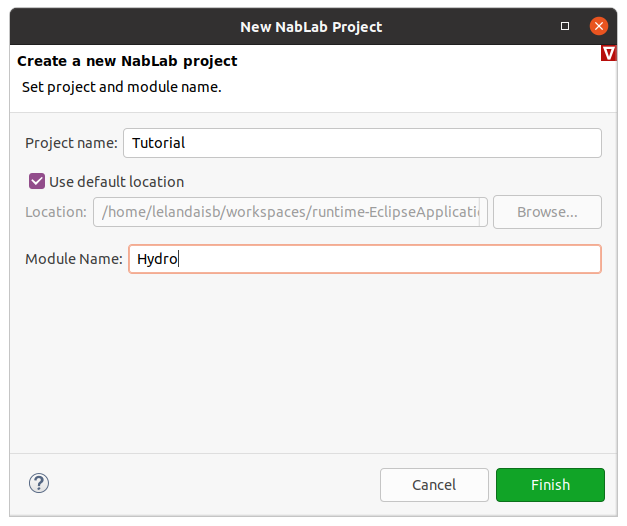
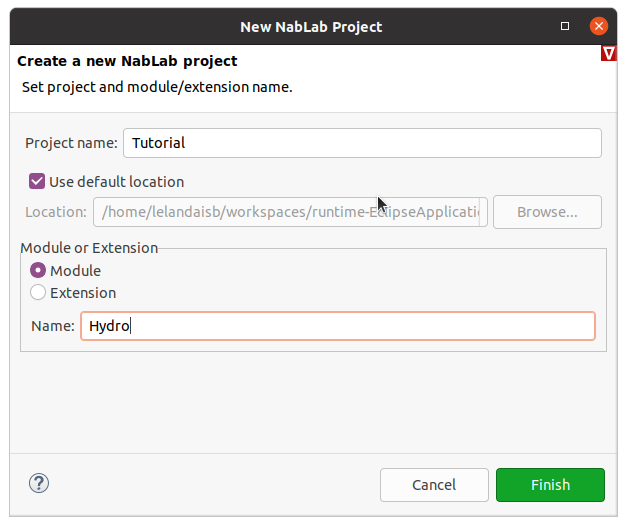
Documentation updated with new wizard screenshots.

Changed region(s): [[0.0303, 0.4563, 0.9697, 0.6692], [0.2727, 0.1521, 0.4848, 0.1825], [0.5758, 0.365, 0.6364, 0.4259]]

diff --git a/docs/fr.cea.nabla.mkdocs/docs/firstextension.md b/docs/fr.cea.nabla.mkdocs/docs/firstextension.md
@@ -21,16 +21,26 @@ The `nextWaveHeight` and `nextDepth` functions have to access shared scientific 
 The aim of this tutorial is to see how to create the NabLab extension containing the functions and how to implement and package a NabLab extension provider associated to this extension.
 
 
-## Defining the extension
+## Creating the project
 
-We will create a NabLab extension called *BathyLib*. The best practice consists in creating a folder for this extension at the same level than the swan folder containing the module and to create a *BathyLib.n* file into this folder. 
+We will create a NabLab extension called *BathyLib*. The best practice consists in creating an independent project for the extension and its providers. To do that, just click on the main menu *File > New > NabLab Project* to create a new project: 
 
-<img src="img/NabLab_extension_folders.png" alt="NabLab Extension Folders" title="NabLab Extension Folders" width="20%" height="20%" />
+<img src="img/NabLab_new_project_menu.png" alt="NabLab New Project" title="NabLab New Project" width="60%" height="60%" />
+
+A new wizard is launched, asking for a project name and an extension name:
+
+<img src="img/NabLab_new_project_wizard.png" alt="NabLab New Project Wizard" title="NabLab New Project Wizard" width="50%" height="50%" />
+
+Enter *BathyLib* as project name, select the *Extension* radio button and enter *BathyLib* as extension name and click on the *Finish* button to create the new project. The new project is available in the *Model Explorer* on the left of the window. It contains two files (*BathyLib.n*, and *BathyLib.ngen*) in the *Tutorial/src/bathylib/* folder:
+
+<img src="img/NabLab_new_project_result.png" alt="NabLab New Project Result" title="NabLab New Project Result" width="30%" height="30%" />
 
 !!!note
-	The extension can also be created into a separate project. The project just needs to share the same workspace as the module.
+	The extension can also be created into the same project as the application, into a separate folder. Therefore, if you plan to share the extension between projects, creating a project for the extension remains the best solution. 
 
-Then, double-click on the *bathylib/BathyLib.n* file to open it and declare the *BathyLib* extension and the `nextWaveHeight` and `nextDepth` functions in the NabLab editor:
+## Defining the extension
+
+Double-click on the *src/bathylib/BathyLib.n* file to open it and declare the `nextWaveHeight` and `nextDepth` functions in the NabLab editor like this:
 
 ```
 extension BathyLib;
@@ -54,33 +64,27 @@ It is noteworthy that the above functions have no body. We will see now how to c
 
 The role of providers is to implement extensions. It is possible to implement several providers for an extension, for example a Java one and a C++ one. In this tutorial we will implement only one C++ provider for the *BathyLib* extension. 
 
-The first step to define the provider is to create a *ngen* file containing the provider definition. NabLab provides a code generator for that: right-click on the *BathyLib.n* file and select the *Generate nablagen provider file* menu. 
+The first step to define the provider is to create a *ngen* file containing the provider definition.
 
-<img src="img/NabLab_generate_nablagen_provider_file.png" alt="NabLab Provider File Generation" title="NabLab Provider File Generation" width="40%" height="40%" />
-
-A *BathyLib.ngen* file is created near the *BathyLib.n* one.
-
-<img src="img/NabLab_extension_folders2.png" alt="NabLab Extension Folders" title="NabLab Extension Folders" width="20%" height="20%" />
+!!! Note
+	The *ngen* file already exists in the project: it has been created by the wizard. If you need to create this *ngen* file on an existing project, NabLab provides a code generator for that: right-click on the *BathyLib.n* file and select the *Generate nablagen provider file* menu. 
 
 Double-click on the *BathyLib.ngen* file to open the editor and suppress lines to let only a simple C++ provider as follows:
 
 ```
-// C++ Extension Provider
 Provider BathyLibCpp : BathyLib
 {
 	target = StlThread;
-	outputPath = "/swan/src-gen-cpp/stl-thread";
+	outputPath = "/BathyLib/src-cpp/stl-thread";
 }
 ```
 
-The above example defines a provider named `BathyLibCpp` that implements `BathyLib`. This provider will be generated for the `StlThread` target in the provided `outputPath`. 
+The above example defines a provider named `BathyLibCpp` that implements `BathyLib`. This provider will be generated for the `StlThread` target in the provided `outputPath`. More information on generation targets are available in the [Ngen language reference](../ngenlanguage/index.html).
 
 !!! note
 	The implemented extension and the available targets are available by contextual code completion with `CTRL-Space` keys.
 
-!!! note
-	More information on generation targets are available in the [Ngen language reference](../ngenlanguage/index.html)
-
+The output folder name is *src-cpp* rather than *src-gen-cpp* because the content of the folder is not totally generated: it will be filled by the user in the following section.
 
 ## Implementing the provider
 
@@ -88,7 +92,7 @@ The aim of the previously defined provider is to implement the `nextWaveHeight` 
 
 <img src="img/NabLab_generate_code.png" alt="NabLab Generate Code" title="NabLab Generate Code" width="50%" height="50%" />
 
-Generated files can be observed in the `outputPath` folder, in our example "/swan/src-gen-cpp/stl-thread".
+Generated files can be observed in the `outputPath` folder, in our example "/BathyLib/src-cpp/stl-thread".
 
 <img src="img/NabLab_provider_generated_files.png" alt="NabLab Provider Files" title="NabLab Provider Files" width="20%" height="20%" />
 

diff --git a/docs/fr.cea.nabla.mkdocs/docs/modulecomposition.md b/docs/fr.cea.nabla.mkdocs/docs/modulecomposition.md
@@ -16,7 +16,7 @@ A new wizard is launched, asking for a project name and a module name:
 
 <img src="img/NabLab_new_project_wizard.png" alt="NabLab New Project Wizard" title="NabLab New Project Wizard" width="50%" height="50%" />
 
-Enter *Tutorial* as project name and *Hydro* as module name and click on the *Finish* button to create the new project. The new project is available in the *Model Explorer* on the left of the window. It contains two files (*Hydro.n*, and *Hydro.ngen*) in the *Tutorial/src/hydro/* folder:
+Enter *Tutorial* as project name, select the *Module* radio button, enter *Hydro* as module name and click on the *Finish* button to create the new project. The new project is available in the *Model Explorer* on the left of the window. It contains two files (*Hydro.n*, and *Hydro.ngen*) in the *Tutorial/src/hydro/* folder:
 
 <img src="img/NabLab_new_project_result.png" alt="NabLab New Project Result" title="NabLab New Project Result" width="30%" height="30%" />
 
@@ -217,5 +217,5 @@ The `StlThread` target will generate the following files:
 
 <img src="img/NabLab_hydro_2remaps_generated_files.png" alt="NabLab Multiple Additional Module Generated Files" title="NabLab Multiple Additional Module Generated Files" width="20%" height="20%"/>
 
-The above picture shows that generated files have the same name as the instance (for example r1 in `AdditionalModule Remap r1` in *HydroRemap.ngen*) starting with an upper case, i.e. *Hydro*, *R1* and *R2*.
+The above picture shows that generated files have the same name as the module instances (defined in the *HydroRemap.ngen* file) starting with an upper case, i.e. *Hydro*, *R1* and *R2*.
 

diff --git a/docs/fr.cea.nabla.mkdocs/docs/firstmodule.md b/docs/fr.cea.nabla.mkdocs/docs/firstmodule.md
@@ -56,7 +56,7 @@ A new wizard is launched, asking for a project name and a module name:
 
 <img src="img/NabLab_new_project_wizard.png" alt="NabLab New Project Wizard" title="NabLab New Project Wizard" width="50%" height="50%" />
 
-Enter *Tutorial* as project name and *HeatEquation* as module name and click on the *Finish* button to create the new project. The new project is available in the *Model Explorer* on the left of the window. It contains two files (*HeatEquation.n*, and *HeatEquation.ngen*) in the *Tutorial/src/heatequation/* folder:
+Enter *Tutorial* as project name, select the *Module* radio button, enter *HeatEquation* as module name and click on the *Finish* button to create the new project. The new project is available in the *Model Explorer* on the left of the window. It contains two files (*HeatEquation.n*, and *HeatEquation.ngen*) in the *Tutorial/src/heatequation/* folder:
 
 <img src="img/NabLab_new_project_result.png" alt="NabLab New Project Result" title="NabLab New Project Result" width="30%" height="30%" />
 
